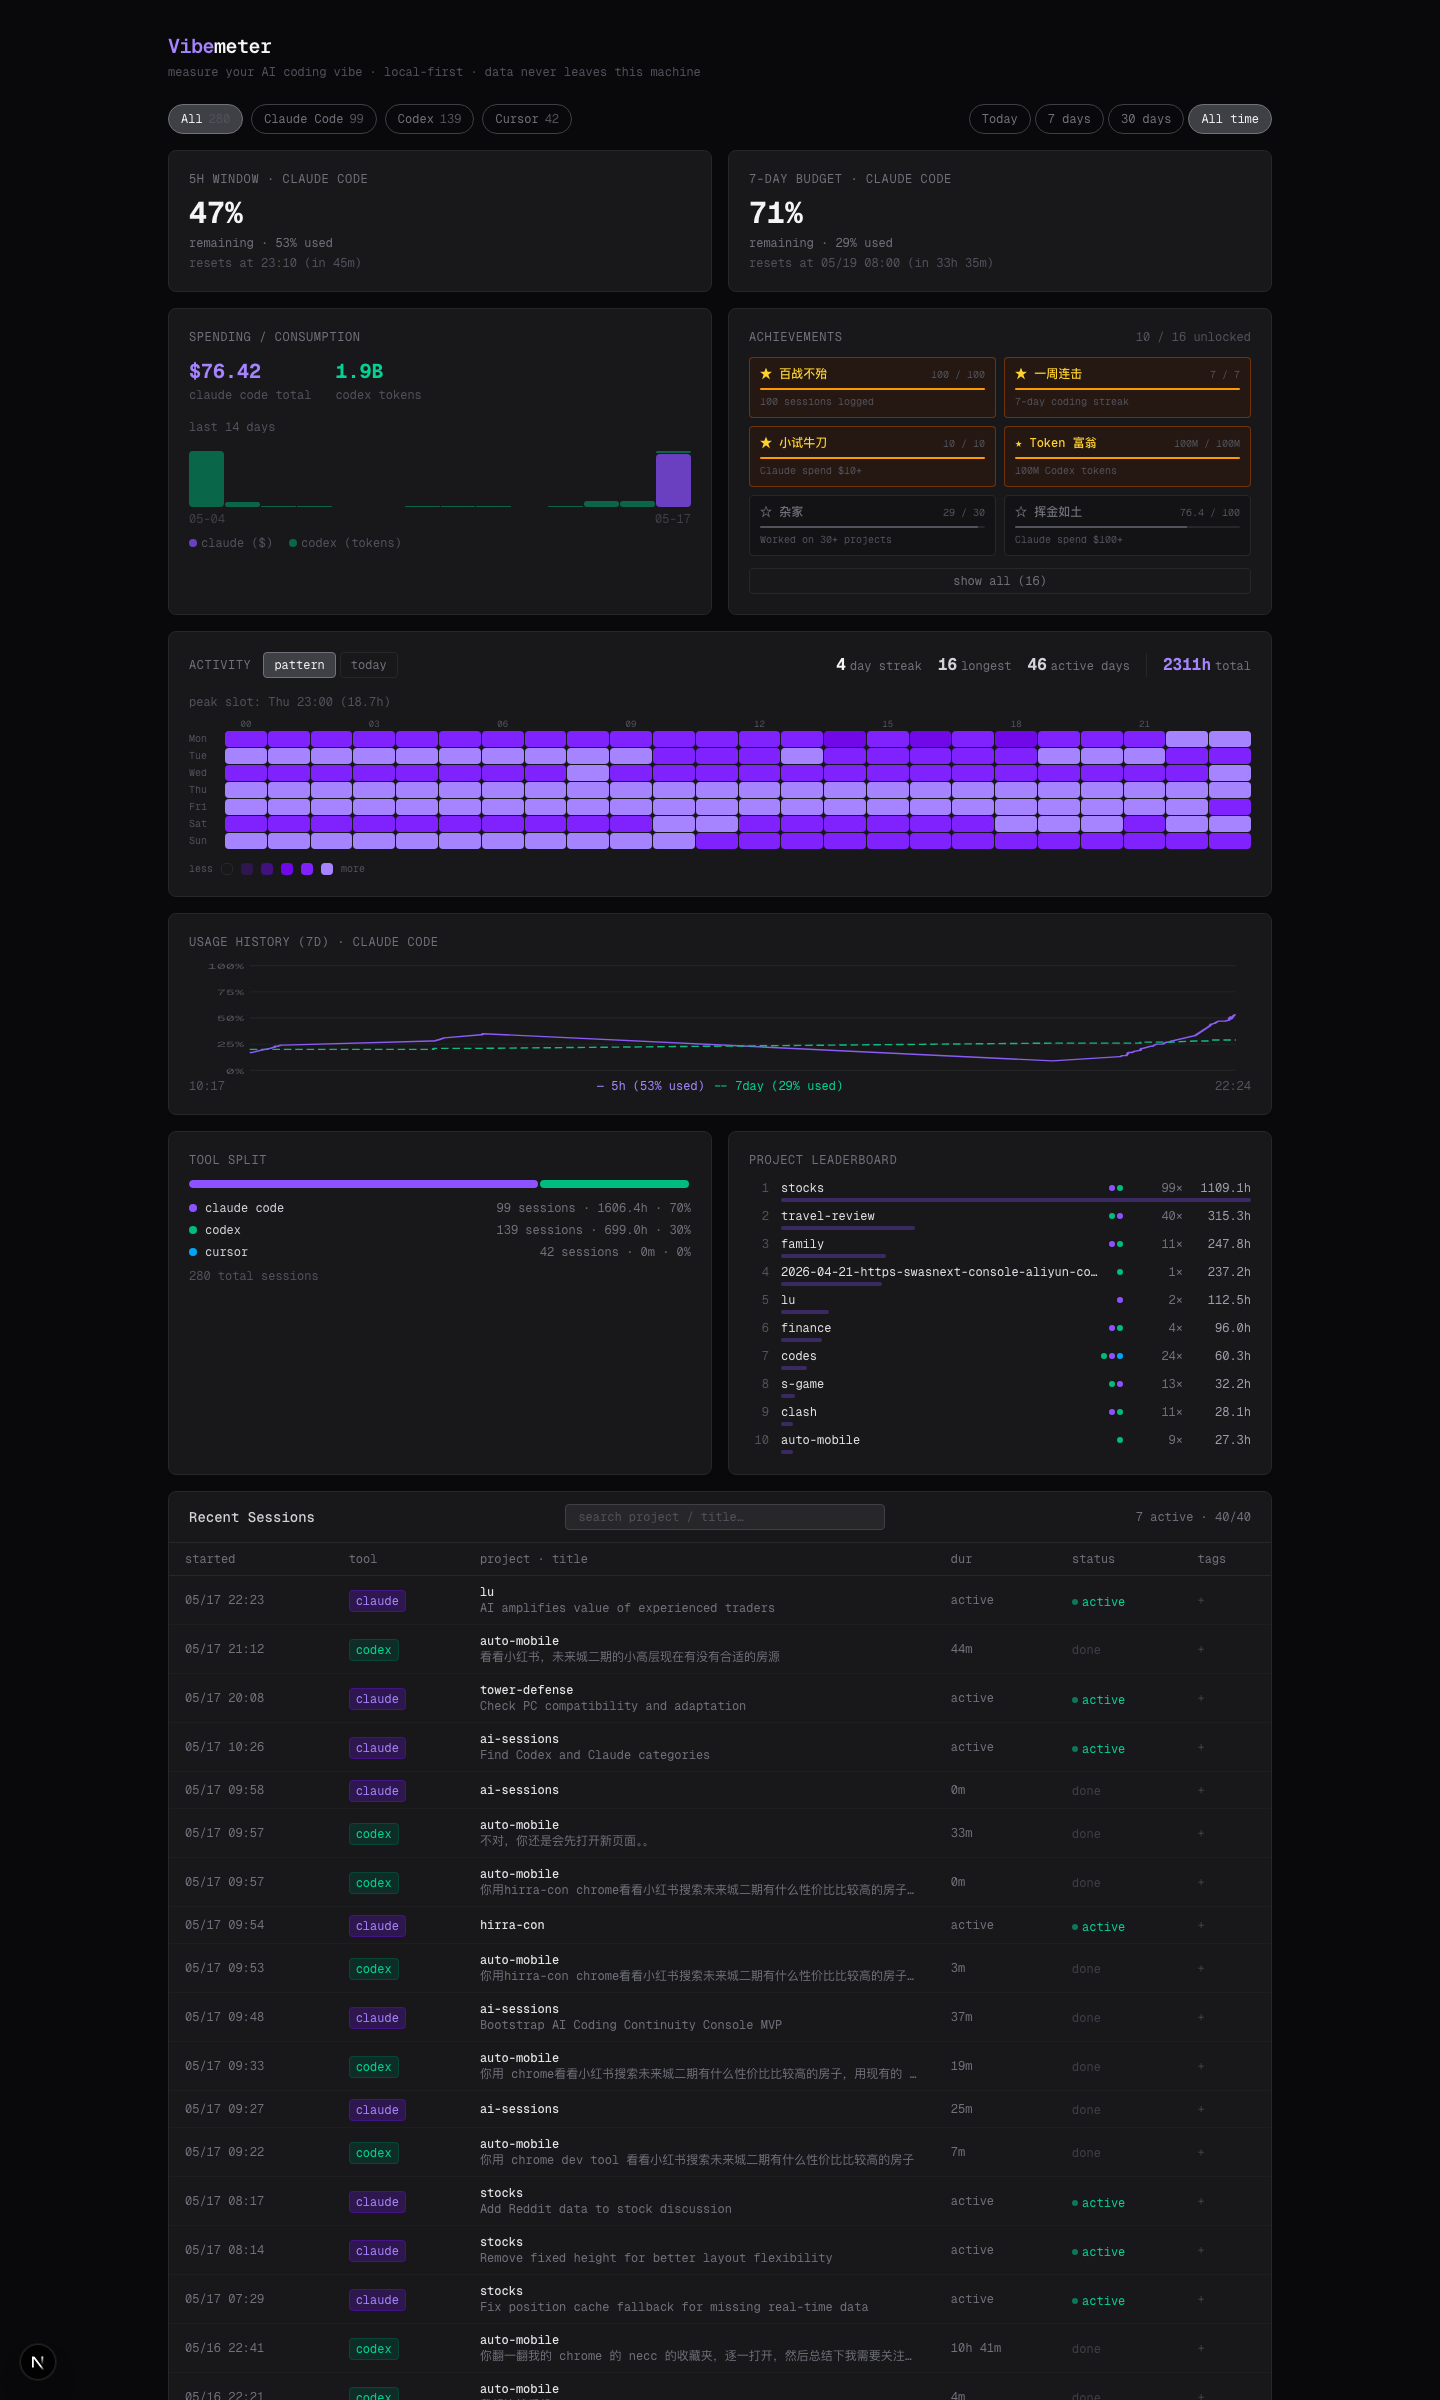
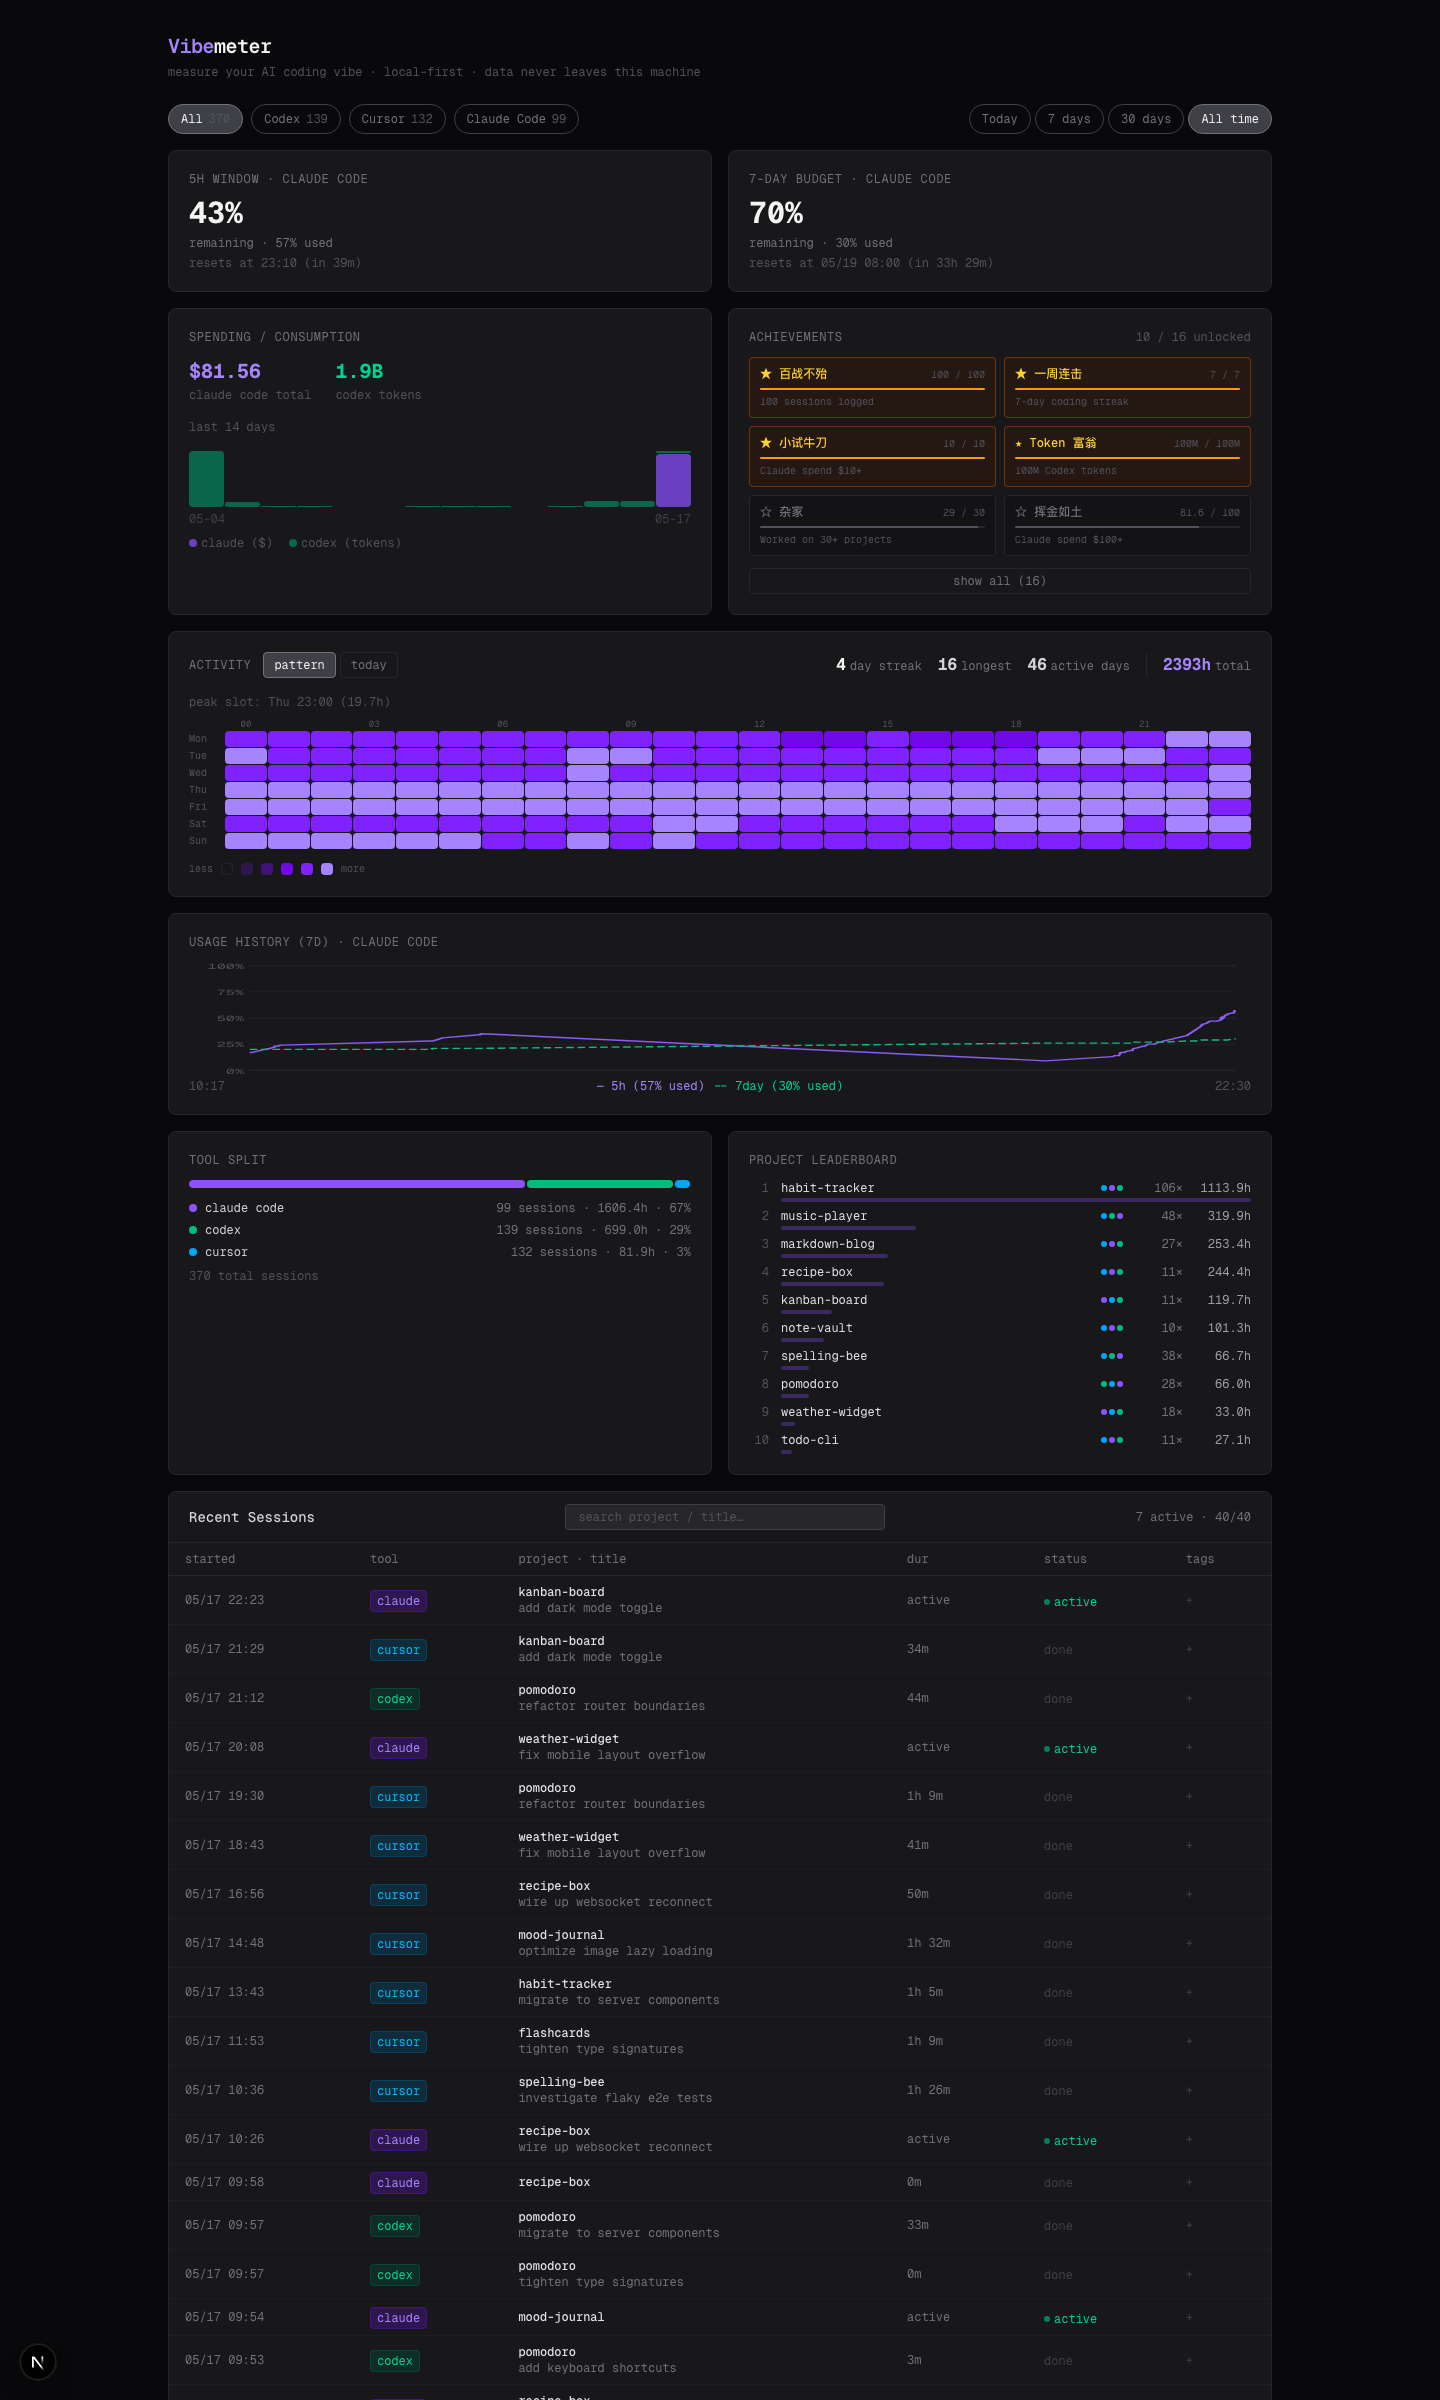
feat: add ?demo=1 mode and refresh screenshot
- anonymize project names and inject mock cursor sessions for demos
- sort tool filter tabs by session count (desc), keeping 'all' first
- README screenshot regenerated via demo mode

diff --git a/src/app/page.tsx b/src/app/page.tsx
@@ -6,15 +6,84 @@ import { Dashboard } from '@/components/Dashboard';
 import { activityStreak, burndownPoints, fileHotspots, spendingStats, dayTimeline, achievements } from '@/lib/stats';
 import type { SessionRow, UsageSnapshotRow } from '@/lib/schema';
 
-export default function DashboardPage() {
+const DEMO_PROJECTS = [
+  'kanban-board', 'pomodoro', 'weather-widget', 'recipe-box', 'mood-journal',
+  'habit-tracker', 'flashcards', 'spelling-bee', 'budget-app', 'markdown-blog',
+  'todo-cli', 'music-player', 'photo-gallery', 'note-vault', 'expense-split',
+];
+
+const DEMO_TITLES = [
+  'add dark mode toggle',
+  'refactor router boundaries',
+  'fix mobile layout overflow',
+  'wire up websocket reconnect',
+  'optimize image lazy loading',
+  'migrate to server components',
+  'tighten type signatures',
+  'investigate flaky e2e tests',
+  'add keyboard shortcuts',
+  'improve empty states',
+];
+
+function anonymize<T extends { cwd: string | null; ai_title: string | null; id: string }>(
+  rows: T[],
+): T[] {
+  const projectMap = new Map<string, string>();
+  return rows.map((s, i) => {
+    if (!s.cwd) return s;
+    const base = s.cwd.split('/').filter(Boolean).pop() ?? '';
+    if (!projectMap.has(base)) {
+      projectMap.set(base, DEMO_PROJECTS[projectMap.size % DEMO_PROJECTS.length]);
+    }
+    return {
+      ...s,
+      cwd: `/Users/demo/code/${projectMap.get(base)}`,
+      ai_title: s.ai_title ? DEMO_TITLES[i % DEMO_TITLES.length] : null,
+    };
+  });
+}
+
+function injectMockCursorSessions<T extends { id: string; tool: string; started_at: number; ended_at: number | null; cwd: string | null; confidence: string; summary: string | null; ai_title: string | null; tags: string | null }>(
+  rows: T[],
+): T[] {
+  const now = Date.now();
+  const extra: T[] = [];
+  for (let i = 0; i < 90; i++) {
+    const proj = DEMO_PROJECTS[i % DEMO_PROJECTS.length];
+    const start = now - (i * 2 + 1) * 2_700_000 - Math.random() * 3_600_000;
+    const dur = (15 + Math.random() * 80) * 60_000;
+    extra.push({
+      id: `demo-cursor-${i}`,
+      tool: 'cursor',
+      started_at: Math.round(start),
+      ended_at: Math.round(start + dur),
+      cwd: `/Users/demo/code/${proj}`,
+      confidence: 'high',
+      summary: null,
+      ai_title: DEMO_TITLES[i % DEMO_TITLES.length],
+      tags: null,
+    } as T);
+  }
+  return [...rows, ...extra].sort((a, b) => b.started_at - a.started_at);
+}
+
+export default async function DashboardPage({ searchParams }: { searchParams: Promise<{ demo?: string }> }) {
+  const params = await searchParams;
+  const demo = params.demo === '1' || params.demo === 'true';
+
   importSessions();
   const db = getDb();
 
-  const sessions = db.prepare(`
+  let sessions = db.prepare(`
     SELECT id, tool, started_at, ended_at, cwd, confidence, summary, ai_title, tags
     FROM sessions
     ORDER BY started_at DESC
   `).all() as Pick<SessionRow, 'id' | 'tool' | 'started_at' | 'ended_at' | 'cwd' | 'confidence' | 'summary' | 'ai_title' | 'tags'>[];
+
+  if (demo) {
+    sessions = anonymize(sessions);
+    sessions = injectMockCursorSessions(sessions);
+  }
 
   type UsageRow = Pick<UsageSnapshotRow, 'window_5h_used_pct' | 'window_weekly_used_pct' | 'reset_at_5h' | 'reset_at_weekly'>;
   const usageBySource = (source: string) => db.prepare(`
@@ -28,6 +97,21 @@ export default function DashboardPage() {
     reset_at_5h: row.reset_at_5h,
     reset_at_weekly: row.reset_at_weekly,
   } : null;
+
+  // For demo, also fabricate a "today's timeline" mostly populated with cursor work
+  let timeline = dayTimeline(0);
+  if (demo) {
+    const dayStart = new Date().setHours(0, 0, 0, 0);
+    const mockToday = [
+      { id: 'demo-t1', tool: 'cursor',      project: 'kanban-board',  startMs: dayStart + 9 * 3_600_000,             endMs: dayStart + 10 * 3_600_000 + 30 * 60_000,  aiTitle: 'add drag-drop sorting' },
+      { id: 'demo-t2', tool: 'claude-code', project: 'note-vault',    startMs: dayStart + 10 * 3_600_000 + 45 * 60_000, endMs: dayStart + 12 * 3_600_000 + 15 * 60_000, aiTitle: 'wire markdown export' },
+      { id: 'demo-t3', tool: 'cursor',      project: 'pomodoro',      startMs: dayStart + 13 * 3_600_000,            endMs: dayStart + 14 * 3_600_000 + 50 * 60_000,  aiTitle: 'fix timer drift' },
+      { id: 'demo-t4', tool: 'codex',       project: 'recipe-box',    startMs: dayStart + 15 * 3_600_000,            endMs: dayStart + 17 * 3_600_000,                aiTitle: 'design ingredient parser' },
+      { id: 'demo-t5', tool: 'cursor',      project: 'habit-tracker', startMs: dayStart + 17 * 3_600_000 + 10 * 60_000, endMs: dayStart + 19 * 3_600_000,             aiTitle: 'streak animation polish' },
+      { id: 'demo-t6', tool: 'cursor',      project: 'budget-app',    startMs: dayStart + 20 * 3_600_000,            endMs: dayStart + 21 * 3_600_000 + 30 * 60_000,  aiTitle: 'csv import wizard' },
+    ];
+    timeline = { dateLabel: new Date().toISOString().slice(0, 10), sessions: mockToday };
+  }
 
   return (
     <div className="min-h-screen bg-zinc-950 text-zinc-100 font-mono">
@@ -46,7 +130,7 @@ export default function DashboardPage() {
           codexBurndown={burndownPoints(168, 'codex')}
           hotspots={fileHotspots(8)}
           spending={spendingStats()}
-          timeline={dayTimeline(0)}
+          timeline={timeline}
           achievements={achievements()}
           claudeUsage={toUsageInfo(usageBySource('statusline'))}
           codexUsage={toUsageInfo(usageBySource('codex'))}

diff --git a/src/components/Dashboard.tsx b/src/components/Dashboard.tsx
@@ -109,7 +109,14 @@ export function Dashboard({ sessions, streak, claudeBurndown, codexBurndown, hot
       {/* Filters row */}
       <div className="flex items-center justify-between mb-4 gap-6">
         <div className="flex gap-2">
-          {TOOLS.filter((t) => t === 'all' || (toolCounts[t] ?? 0) > 0).map((t) => (
+          {TOOLS
+            .filter((t) => t === 'all' || (toolCounts[t] ?? 0) > 0)
+            .sort((a, b) => {
+              if (a === 'all') return -1;
+              if (b === 'all') return 1;
+              return (toolCounts[b] ?? 0) - (toolCounts[a] ?? 0);
+            })
+            .map((t) => (
             <button key={t} onClick={() => setToolFilter(t)}
               className={`text-xs px-3 py-1.5 rounded-full border transition-colors ${
                 toolFilter === t